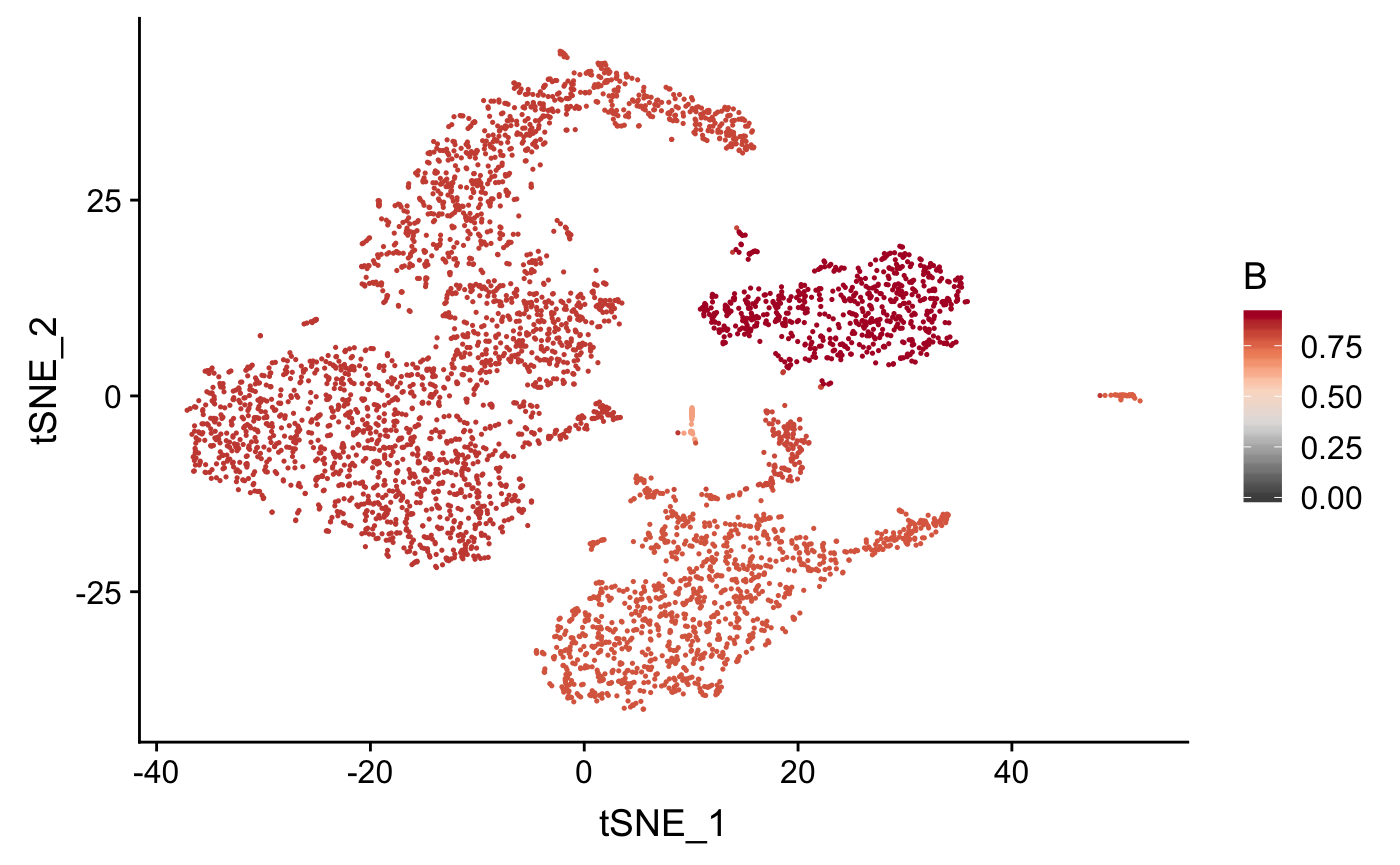
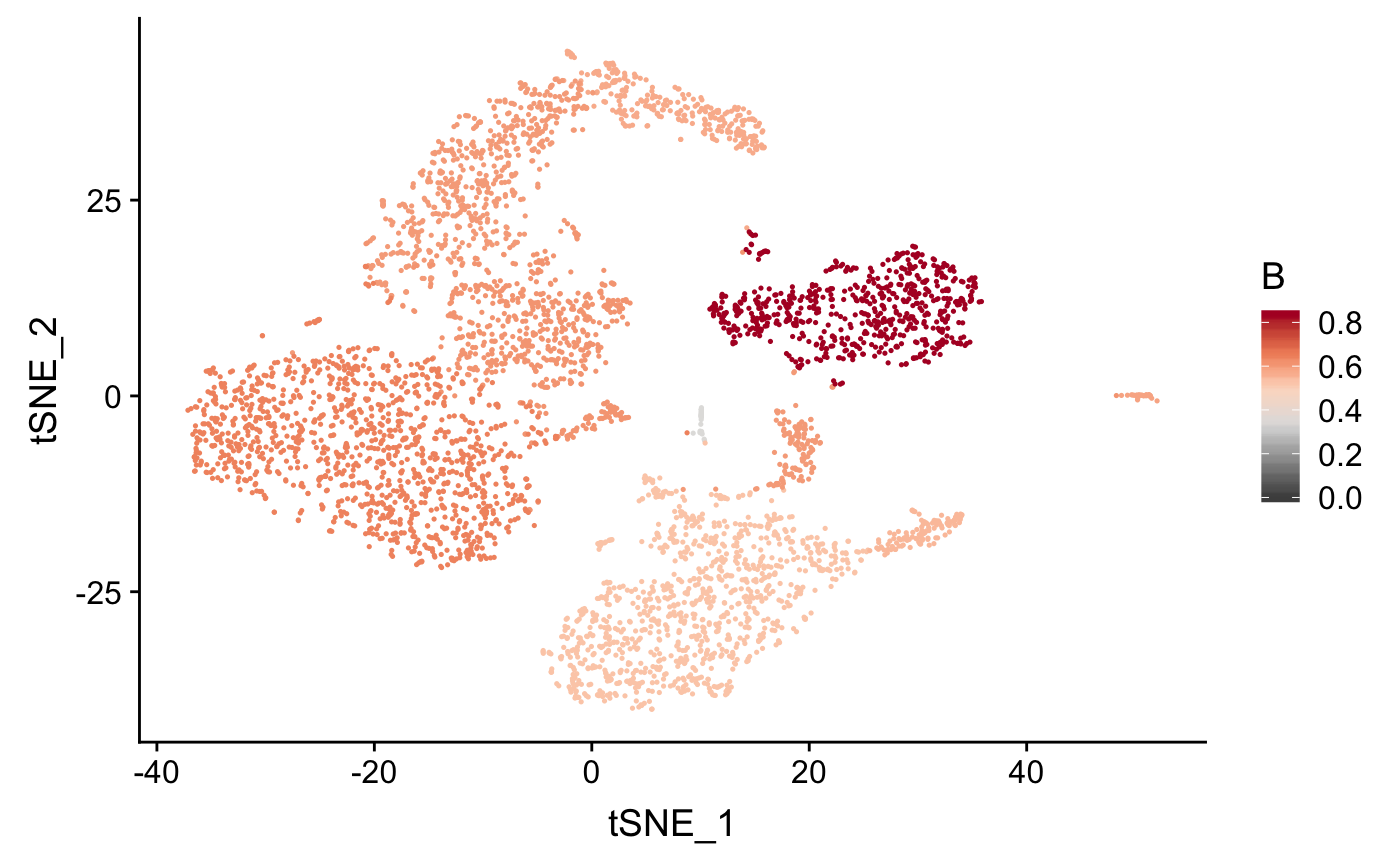
updated website

diff --git a/docs/articles/visualizations.html b/docs/articles/visualizations.html
@@ -121,22 +121,23 @@
 <a class="sourceLine" id="cb1-8" title="8">  <span class="dt">input =</span> full_pbmc4k_matrix,</a>
 <a class="sourceLine" id="cb1-9" title="9">  <span class="dt">metadata =</span> full_pbmc4k_meta,</a>
 <a class="sourceLine" id="cb1-10" title="10">  <span class="dt">cluster_col =</span> <span class="st">"cluster"</span>,</a>
-<a class="sourceLine" id="cb1-11" title="11">  <span class="dt">ref_mat =</span> cbmc_ref</a>
-<a class="sourceLine" id="cb1-12" title="12">)</a>
-<a class="sourceLine" id="cb1-13" title="13"></a>
-<a class="sourceLine" id="cb1-14" title="14"><span class="co"># plot_cor generates a plot per reference cluster</span></a>
-<a class="sourceLine" id="cb1-15" title="15">g &lt;-<span class="st"> </span><span class="kw"><a href="../reference/plot_cor.html">plot_cor</a></span>(</a>
-<a class="sourceLine" id="cb1-16" title="16">  res,</a>
-<a class="sourceLine" id="cb1-17" title="17">  full_pbmc4k_meta,</a>
-<a class="sourceLine" id="cb1-18" title="18">  <span class="dt">cluster_col =</span> <span class="st">"cluster"</span>,</a>
-<a class="sourceLine" id="cb1-19" title="19">  <span class="dt">x =</span> <span class="st">"tSNE_1"</span>, </a>
-<a class="sourceLine" id="cb1-20" title="20">  <span class="dt">y =</span> <span class="st">"tSNE_2"</span></a>
-<a class="sourceLine" id="cb1-21" title="21">)</a>
-<a class="sourceLine" id="cb1-22" title="22"></a>
-<a class="sourceLine" id="cb1-23" title="23"><span class="kw"><a href="https://www.rdocumentation.org/packages/base/topics/length">length</a></span>(g) <span class="op">==</span><span class="st"> </span><span class="kw"><a href="https://www.rdocumentation.org/packages/base/topics/nrow">ncol</a></span>(cbmc_ref)</a>
-<a class="sourceLine" id="cb1-24" title="24"><span class="co">#&gt; [1] TRUE</span></a>
-<a class="sourceLine" id="cb1-25" title="25"></a>
-<a class="sourceLine" id="cb1-26" title="26">g[[<span class="dv">1</span>]]</a></code></pre></div>
+<a class="sourceLine" id="cb1-11" title="11">  <span class="dt">ref_mat =</span> cbmc_ref,</a>
+<a class="sourceLine" id="cb1-12" title="12">  <span class="dt">query_genes =</span> pbmc4k_vargenes</a>
+<a class="sourceLine" id="cb1-13" title="13">)</a>
+<a class="sourceLine" id="cb1-14" title="14"></a>
+<a class="sourceLine" id="cb1-15" title="15"><span class="co"># plot_cor generates a plot per reference cluster</span></a>
+<a class="sourceLine" id="cb1-16" title="16">g &lt;-<span class="st"> </span><span class="kw"><a href="../reference/plot_cor.html">plot_cor</a></span>(</a>
+<a class="sourceLine" id="cb1-17" title="17">  res,</a>
+<a class="sourceLine" id="cb1-18" title="18">  full_pbmc4k_meta,</a>
+<a class="sourceLine" id="cb1-19" title="19">  <span class="dt">cluster_col =</span> <span class="st">"cluster"</span>,</a>
+<a class="sourceLine" id="cb1-20" title="20">  <span class="dt">x =</span> <span class="st">"tSNE_1"</span>, </a>
+<a class="sourceLine" id="cb1-21" title="21">  <span class="dt">y =</span> <span class="st">"tSNE_2"</span></a>
+<a class="sourceLine" id="cb1-22" title="22">)</a>
+<a class="sourceLine" id="cb1-23" title="23"></a>
+<a class="sourceLine" id="cb1-24" title="24"><span class="kw"><a href="https://www.rdocumentation.org/packages/base/topics/length">length</a></span>(g) <span class="op">==</span><span class="st"> </span><span class="kw"><a href="https://www.rdocumentation.org/packages/base/topics/nrow">ncol</a></span>(cbmc_ref)</a>
+<a class="sourceLine" id="cb1-25" title="25"><span class="co">#&gt; [1] TRUE</span></a>
+<a class="sourceLine" id="cb1-26" title="26"></a>
+<a class="sourceLine" id="cb1-27" title="27">g[[<span class="dv">1</span>]]</a></code></pre></div>
 <p><img src="visualizations_files/figure-html/unnamed-chunk-1-1.png" width="700" style="display: block; margin: auto;"></p>
 <div class="sourceCode" id="cb2"><pre class="sourceCode r"><code class="sourceCode r"><a class="sourceLine" id="cb2-1" title="1"></a>
 <a class="sourceLine" id="cb2-2" title="2"><span class="co"># plot_best_call to view called identities in one plot</span></a>
@@ -157,55 +158,72 @@
 <a class="sourceLine" id="cb3-9" title="9">  <span class="dt">n =</span> <span class="dv">5</span></a>
 <a class="sourceLine" id="cb3-10" title="10">  )</a></code></pre></div>
 <p><img src="visualizations_files/figure-html/unnamed-chunk-1-3.png" width="700" style="display: block; margin: auto;"></p>
+<div class="sourceCode" id="cb4"><pre class="sourceCode r"><code class="sourceCode r"><a class="sourceLine" id="cb4-1" title="1"></a>
+<a class="sourceLine" id="cb4-2" title="2"><span class="co"># `clustify` against reference combinations also informs clustering</span></a>
+<a class="sourceLine" id="cb4-3" title="3"><span class="co"># in this case, several clusters seems to be a mixture with neighboring idents</span></a>
+<a class="sourceLine" id="cb4-4" title="4">comb_ref &lt;-<span class="st"> </span><span class="kw"><a href="../reference/make_comb_ref.html">make_comb_ref</a></span>(cbmc_ref)</a>
+<a class="sourceLine" id="cb4-5" title="5">res2 &lt;-<span class="st"> </span><span class="kw"><a href="../reference/clustify.html">clustify</a></span>(</a>
+<a class="sourceLine" id="cb4-6" title="6">  <span class="dt">input =</span> full_pbmc4k_matrix,</a>
+<a class="sourceLine" id="cb4-7" title="7">  <span class="dt">metadata =</span> full_pbmc4k_meta,</a>
+<a class="sourceLine" id="cb4-8" title="8">  <span class="dt">cluster_col =</span> <span class="st">"cluster"</span>,</a>
+<a class="sourceLine" id="cb4-9" title="9">  <span class="dt">ref_mat =</span> comb_ref,</a>
+<a class="sourceLine" id="cb4-10" title="10">  <span class="dt">query_genes =</span> pbmc4k_vargenes</a>
+<a class="sourceLine" id="cb4-11" title="11">)</a>
+<a class="sourceLine" id="cb4-12" title="12"><span class="kw"><a href="../reference/plot_best_call.html">plot_best_call</a></span>(</a>
+<a class="sourceLine" id="cb4-13" title="13">  res2,</a>
+<a class="sourceLine" id="cb4-14" title="14">  full_pbmc4k_meta,</a>
+<a class="sourceLine" id="cb4-15" title="15">  <span class="dt">do.label =</span> T</a>
+<a class="sourceLine" id="cb4-16" title="16">)</a></code></pre></div>
+<p><img src="visualizations_files/figure-html/unnamed-chunk-1-4.png" width="700" style="display: block; margin: auto;"></p>
 </div>
 <div id="heatmap" class="section level2">
 <h2 class="hasAnchor">
 <a href="#heatmap" class="anchor"></a>Heatmap</h2>
-<div class="sourceCode" id="cb4"><pre class="sourceCode r"><code class="sourceCode r"><a class="sourceLine" id="cb4-1" title="1">res &lt;-<span class="st"> </span><span class="kw"><a href="../reference/clustify.html">clustify</a></span>(</a>
-<a class="sourceLine" id="cb4-2" title="2">  <span class="dt">input =</span> full_pbmc4k_matrix,</a>
-<a class="sourceLine" id="cb4-3" title="3">  <span class="dt">metadata =</span> full_pbmc4k_meta,</a>
-<a class="sourceLine" id="cb4-4" title="4">  <span class="dt">cluster_col =</span> <span class="st">"cluster"</span>,</a>
-<a class="sourceLine" id="cb4-5" title="5">  <span class="dt">ref_mat =</span> cbmc_ref</a>
-<a class="sourceLine" id="cb4-6" title="6">)</a>
-<a class="sourceLine" id="cb4-7" title="7"></a>
-<a class="sourceLine" id="cb4-8" title="8"><span class="kw"><a href="../reference/plot_cor_heatmap.html">plot_cor_heatmap</a></span>(res)</a></code></pre></div>
+<div class="sourceCode" id="cb5"><pre class="sourceCode r"><code class="sourceCode r"><a class="sourceLine" id="cb5-1" title="1">res &lt;-<span class="st"> </span><span class="kw"><a href="../reference/clustify.html">clustify</a></span>(</a>
+<a class="sourceLine" id="cb5-2" title="2">  <span class="dt">input =</span> full_pbmc4k_matrix,</a>
+<a class="sourceLine" id="cb5-3" title="3">  <span class="dt">metadata =</span> full_pbmc4k_meta,</a>
+<a class="sourceLine" id="cb5-4" title="4">  <span class="dt">cluster_col =</span> <span class="st">"cluster"</span>,</a>
+<a class="sourceLine" id="cb5-5" title="5">  <span class="dt">ref_mat =</span> cbmc_ref</a>
+<a class="sourceLine" id="cb5-6" title="6">)</a>
+<a class="sourceLine" id="cb5-7" title="7"></a>
+<a class="sourceLine" id="cb5-8" title="8"><span class="kw"><a href="../reference/plot_cor_heatmap.html">plot_cor_heatmap</a></span>(res)</a></code></pre></div>
 <p><img src="visualizations_files/figure-html/unnamed-chunk-2-1.png" width="700" style="display: block; margin: auto;"></p>
-<div class="sourceCode" id="cb5"><pre class="sourceCode r"><code class="sourceCode r"><a class="sourceLine" id="cb5-1" title="1"></a>
-<a class="sourceLine" id="cb5-2" title="2">res2 &lt;-<span class="st"> </span><span class="kw"><a href="../reference/clustify_lists.html">clustify_lists</a></span>(</a>
-<a class="sourceLine" id="cb5-3" title="3">  <span class="dt">input =</span> full_pbmc4k_matrix,</a>
-<a class="sourceLine" id="cb5-4" title="4">  <span class="dt">cluster_info =</span> full_pbmc4k_meta,</a>
-<a class="sourceLine" id="cb5-5" title="5">  <span class="dt">cluster_col =</span> <span class="st">"cluster"</span>,</a>
-<a class="sourceLine" id="cb5-6" title="6">  <span class="dt">marker =</span> pbmc4k_markers,</a>
-<a class="sourceLine" id="cb5-7" title="7">  <span class="dt">marker_inmatrix =</span> F</a>
-<a class="sourceLine" id="cb5-8" title="8">)</a>
-<a class="sourceLine" id="cb5-9" title="9"></a>
-<a class="sourceLine" id="cb5-10" title="10"><span class="kw"><a href="../reference/plot_cor_heatmap.html">plot_cor_heatmap</a></span>(res2)</a></code></pre></div>
+<div class="sourceCode" id="cb6"><pre class="sourceCode r"><code class="sourceCode r"><a class="sourceLine" id="cb6-1" title="1"></a>
+<a class="sourceLine" id="cb6-2" title="2">res2 &lt;-<span class="st"> </span><span class="kw"><a href="../reference/clustify_lists.html">clustify_lists</a></span>(</a>
+<a class="sourceLine" id="cb6-3" title="3">  <span class="dt">input =</span> full_pbmc4k_matrix,</a>
+<a class="sourceLine" id="cb6-4" title="4">  <span class="dt">cluster_info =</span> full_pbmc4k_meta,</a>
+<a class="sourceLine" id="cb6-5" title="5">  <span class="dt">cluster_col =</span> <span class="st">"cluster"</span>,</a>
+<a class="sourceLine" id="cb6-6" title="6">  <span class="dt">marker =</span> pbmc4k_markers,</a>
+<a class="sourceLine" id="cb6-7" title="7">  <span class="dt">marker_inmatrix =</span> F</a>
+<a class="sourceLine" id="cb6-8" title="8">)</a>
+<a class="sourceLine" id="cb6-9" title="9"></a>
+<a class="sourceLine" id="cb6-10" title="10"><span class="kw"><a href="../reference/plot_cor_heatmap.html">plot_cor_heatmap</a></span>(res2)</a></code></pre></div>
 <p><img src="visualizations_files/figure-html/unnamed-chunk-2-2.png" width="700" style="display: block; margin: auto;"></p>
 </div>
 <div id="gsea-top-hits-per-cluster" class="section level2">
 <h2 class="hasAnchor">
 <a href="#gsea-top-hits-per-cluster" class="anchor"></a>GSEA top hits per cluster</h2>
-<div class="sourceCode" id="cb6"><pre class="sourceCode r"><code class="sourceCode r"><a class="sourceLine" id="cb6-1" title="1"><span class="co"># gene lists can be converted from gmt files (Broad)</span></a>
-<a class="sourceLine" id="cb6-2" title="2">list_reactome &lt;-<span class="st"> </span><span class="kw"><a href="../reference/gmt_to_list.html">gmt_to_list</a></span>(<span class="kw"><a href="https://www.rdocumentation.org/packages/here/topics/here">here</a></span>(<span class="st">"c2.cp.reactome.v6.2.symbols.gmt"</span>))</a>
-<a class="sourceLine" id="cb6-3" title="3"></a>
-<a class="sourceLine" id="cb6-4" title="4">full_pbmc4k_avg &lt;-<span class="st"> </span><span class="kw"><a href="../reference/average_clusters.html">average_clusters</a></span>(</a>
-<a class="sourceLine" id="cb6-5" title="5">  full_pbmc4k_matrix, </a>
-<a class="sourceLine" id="cb6-6" title="6">  full_pbmc4k_meta, </a>
-<a class="sourceLine" id="cb6-7" title="7">  <span class="dt">cluster_col =</span> <span class="st">"classified"</span></a>
-<a class="sourceLine" id="cb6-8" title="8">)</a>
-<a class="sourceLine" id="cb6-9" title="9"></a>
-<a class="sourceLine" id="cb6-10" title="10">res &lt;-<span class="st"> </span><span class="kw"><a href="../reference/plot_pathway_gsea.html">plot_pathway_gsea</a></span>(</a>
-<a class="sourceLine" id="cb6-11" title="11">  full_pbmc4k_avg[,<span class="dv">1</span><span class="op">:</span><span class="dv">2</span>], </a>
-<a class="sourceLine" id="cb6-12" title="12">  list_reactome, </a>
-<a class="sourceLine" id="cb6-13" title="13">  <span class="dt">topn =</span> <span class="dv">3</span>)</a>
-<a class="sourceLine" id="cb6-14" title="14"></a>
-<a class="sourceLine" id="cb6-15" title="15"><span class="co"># returns dataframe of gsea analysis</span></a>
-<a class="sourceLine" id="cb6-16" title="16">res[[<span class="dv">1</span>]][<span class="dv">1</span><span class="op">:</span><span class="dv">2</span>,<span class="dv">1</span><span class="op">:</span><span class="dv">2</span>]</a>
-<a class="sourceLine" id="cb6-17" title="17"><span class="co">#&gt;                 GLYCOGEN_BREAKDOWN_GLYCOGENOLYSIS TRANSLATION</span></a>
-<a class="sourceLine" id="cb6-18" title="18"><span class="co">#&gt; B cells                                 -1.535351    3.262957</span></a>
-<a class="sourceLine" id="cb6-19" title="19"><span class="co">#&gt; CD14+ Monocytes                          1.340259   -3.207698</span></a>
-<a class="sourceLine" id="cb6-20" title="20"><span class="co"># and plot</span></a>
-<a class="sourceLine" id="cb6-21" title="21">res[[<span class="dv">2</span>]]</a></code></pre></div>
+<div class="sourceCode" id="cb7"><pre class="sourceCode r"><code class="sourceCode r"><a class="sourceLine" id="cb7-1" title="1"><span class="co"># gene lists can be converted from gmt files (Broad)</span></a>
+<a class="sourceLine" id="cb7-2" title="2">list_reactome &lt;-<span class="st"> </span><span class="kw"><a href="../reference/gmt_to_list.html">gmt_to_list</a></span>(<span class="kw"><a href="https://www.rdocumentation.org/packages/here/topics/here">here</a></span>(<span class="st">"c2.cp.reactome.v6.2.symbols.gmt"</span>))</a>
+<a class="sourceLine" id="cb7-3" title="3"></a>
+<a class="sourceLine" id="cb7-4" title="4">full_pbmc4k_avg &lt;-<span class="st"> </span><span class="kw"><a href="../reference/average_clusters.html">average_clusters</a></span>(</a>
+<a class="sourceLine" id="cb7-5" title="5">  full_pbmc4k_matrix, </a>
+<a class="sourceLine" id="cb7-6" title="6">  full_pbmc4k_meta, </a>
+<a class="sourceLine" id="cb7-7" title="7">  <span class="dt">cluster_col =</span> <span class="st">"classified"</span></a>
+<a class="sourceLine" id="cb7-8" title="8">)</a>
+<a class="sourceLine" id="cb7-9" title="9"></a>
+<a class="sourceLine" id="cb7-10" title="10">res &lt;-<span class="st"> </span><span class="kw"><a href="../reference/plot_pathway_gsea.html">plot_pathway_gsea</a></span>(</a>
+<a class="sourceLine" id="cb7-11" title="11">  full_pbmc4k_avg[,<span class="dv">1</span><span class="op">:</span><span class="dv">2</span>], </a>
+<a class="sourceLine" id="cb7-12" title="12">  list_reactome, </a>
+<a class="sourceLine" id="cb7-13" title="13">  <span class="dt">topn =</span> <span class="dv">3</span>)</a>
+<a class="sourceLine" id="cb7-14" title="14"></a>
+<a class="sourceLine" id="cb7-15" title="15"><span class="co"># returns dataframe of gsea analysis</span></a>
+<a class="sourceLine" id="cb7-16" title="16">res[[<span class="dv">1</span>]][<span class="dv">1</span><span class="op">:</span><span class="dv">2</span>,<span class="dv">1</span><span class="op">:</span><span class="dv">2</span>]</a>
+<a class="sourceLine" id="cb7-17" title="17"><span class="co">#&gt;                 GLYCOGEN_BREAKDOWN_GLYCOGENOLYSIS TRANSLATION</span></a>
+<a class="sourceLine" id="cb7-18" title="18"><span class="co">#&gt; B cells                                 -1.535351    3.262957</span></a>
+<a class="sourceLine" id="cb7-19" title="19"><span class="co">#&gt; CD14+ Monocytes                          1.340259   -3.207698</span></a>
+<a class="sourceLine" id="cb7-20" title="20"><span class="co"># and plot</span></a>
+<a class="sourceLine" id="cb7-21" title="21">res[[<span class="dv">2</span>]]</a></code></pre></div>
 <p><img src="visualizations_files/figure-html/unnamed-chunk-3-1.png" width="700" style="display: block; margin: auto;"></p>
 </div>
   </div>

diff --git a/docs/reference/make_comb_ref.html b/docs/reference/make_comb_ref.html
@@ -6,7 +6,7 @@
 <meta http-equiv="X-UA-Compatible" content="IE=edge">
 <meta name="viewport" content="width=device-width, initial-scale=1.0">
 
-<title>Changelog • clustifyR</title>
+<title>make combination ref matrix to assess intermixing — make_comb_ref • clustifyR</title>
 
 <!-- jquery -->
 <script src="https://cdnjs.cloudflare.com/ajax/libs/jquery/3.3.1/jquery.min.js" integrity="sha256-FgpCb/KJQlLNfOu91ta32o/NMZxltwRo8QtmkMRdAu8=" crossorigin="anonymous"></script>
@@ -30,7 +30,9 @@
 
 
 
-<meta property="og:title" content="Changelog" />
+<meta property="og:title" content="make combination ref matrix to assess intermixing — make_comb_ref" />
+
+<meta property="og:description" content="make combination ref matrix to assess intermixing" />
 
 <meta property="og:image" content="http://rnabioco.github.io/clustifyR/logo.png" />
 <meta name="twitter:card" content="summary" />
@@ -50,7 +52,7 @@
   </head>
 
   <body>
-    <div class="container template-news">
+    <div class="container template-reference-topic">
       <header>
       <div class="navbar navbar-default navbar-fixed-top" role="navigation">
   <div class="container">
@@ -129,47 +131,45 @@
 <div class="row">
   <div class="col-md-9 contents">
     <div class="page-header">
-      <h1>Changelog <small></small></h1>
-      <small>Source: <a href='https://github.com/rnabioco/clustifyR/blob/master/NEWS.md'><code>NEWS.md</code></a></small>
+    <h1>make combination ref matrix to assess intermixing</h1>
+    <small class="dont-index">Source: <a href='https://github.com/rnabioco/clustifyR/blob/master/R/utils.R'><code>R/utils.R</code></a></small>
+    <div class="hidden name"><code>make_comb_ref.Rd</code></div>
     </div>
 
-    <div id="clustifyr-05-29-19" class="section level1">
-<h1 class="page-header">
-<a href="#clustifyr-05-29-19" class="anchor"></a>clustifyR 05-29-19</h1>
-<ul>
-<li><p>Updated discussions, benchmark, and visualization example pages</p></li>
-<li><p>reorganized <code>clustifyrdata</code> data package</p></li>
-</ul>
-</div>
-    <div id="clustifyr-02-01-19" class="section level1">
-<h1 class="page-header">
-<a href="#clustifyr-02-01-19" class="anchor"></a>clustifyR 02-01-19</h1>
-<ul>
-<li><p>Added direct support for <code>seurat</code> and other object classes</p></li>
-<li><p>Updated readme and tutorial pages</p></li>
-<li><p>Moved some larger reference data to <code>clustifyrdata</code></p></li>
-</ul>
-</div>
-    <div id="clustifyr-0-0-0-9000" class="section level1">
-<h1 class="page-header">
-<a href="#clustifyr-0-0-0-9000" class="anchor"></a>clustifyR 0.0.0.9000</h1>
-<ul>
-<li>Added a <code>NEWS.md</code> file to track changes to the package.</li>
-</ul>
-</div>
-  </div>
+    <div class="ref-description">
+    
+    <p>make combination ref matrix to assess intermixing</p>
+    
+    </div>
 
+    <pre class="usage"><span class='fu'>make_comb_ref</span>(<span class='no'>ref_mat</span>, <span class='kw'>log_scale</span> <span class='kw'>=</span> <span class='no'>T</span>, <span class='kw'>sep</span> <span class='kw'>=</span> <span class='st'>"_and_"</span>)</pre>
+    
+    <h2 class="hasAnchor" id="arguments"><a class="anchor" href="#arguments"></a>Arguments</h2>
+    <table class="ref-arguments">
+    <colgroup><col class="name" /><col class="desc" /></colgroup>
+    <tr>
+      <th>ref_mat</th>
+      <td><p>reference expression matrix</p></td>
+    </tr>
+    <tr>
+      <th>log_scale</th>
+      <td><p>whether input data is natural</p></td>
+    </tr>
+    <tr>
+      <th>sep</th>
+      <td><p>separator for name combinations</p></td>
+    </tr>
+    </table>
+    
+
+  </div>
   <div class="col-md-3 hidden-xs hidden-sm" id="sidebar">
-    <div id="tocnav">
-      <h2>Contents</h2>
-      <ul class="nav nav-pills nav-stacked">
-        <li><a href="#clustifyr-05-29-19">05-29-19</a></li>
-        <li><a href="#clustifyr-02-01-19">02-01-19</a></li>
-        <li><a href="#clustifyr-0-0-0-9000">0.0.0.9000</a></li>
-      </ul>
-    </div>
-  </div>
+    <h2>Contents</h2>
+    <ul class="nav nav-pills nav-stacked">
+      <li><a href="#arguments">Arguments</a></li>
+                </ul>
 
+  </div>
 </div>
 
       <footer>

diff --git a/docs/articles/othertools.html b/docs/articles/othertools.html
@@ -111,27 +111,28 @@
 <div id="feature-selection" class="section level2">
 <h2 class="hasAnchor">
 <a href="#feature-selection" class="anchor"></a>Feature selection</h2>
-<p>Using all genes works moderately well, but performance is improved in various testing scenarios by some form of feature selection, such as var.genes in <code>seurat</code>, or <code>M3Drop</code>.</p>
+<p>Using all genes works moderately well, but performance is improved in various testing scenarios by some form of feature selection, such as var.genes in <code>seurat</code>, or <code>M3Drop</code>, or simply highly variable genes.</p>
 </div>
 <div id="imputation" class="section level2">
 <h2 class="hasAnchor">
 <a href="#imputation" class="anchor"></a>Imputation</h2>
-<p>Imputation methods such as <code>ALRA</code>, in attempt to fill in drop-out signal, are not necessary for per-cluster identity assignment. Per-cell assignment is somewhat improved with imputation.</p>
+<p>Imputation methods such as <code>ALRA</code>, in attempt to fill in drop-out signal, are not necessary for cluster-level identity assignment. Per-cell assignment is somewhat improved with imputation. Alternatively, <code>clustifyR</code> offers the <code>rm0</code> option to treat genes with 0 count as missing instead of low expression, and ignore them.</p>
 </div>
 <div id="variance-stabilizing-transformation" class="section level2">
 <h2 class="hasAnchor">
 <a href="#variance-stabilizing-transformation" class="anchor"></a>Variance stabilizing transformation</h2>
-<p><code>clustifyR</code> operates on raw counts and log transformed data. VST, such as implemented by <code>sctransform</code> is acceptable, but does not appear to give additional benefits.</p>
+<p><code>clustifyR</code> operates on raw counts and log transformed data. VST, such as implemented by <code>sctransform</code> is acceptable, but does not appear to give additional benefits. If used, ideally the query and reference matrices should both be transformed.</p>
 </div>
 <div id="background-signal-removal" class="section level2">
 <h2 class="hasAnchor">
 <a href="#background-signal-removal" class="anchor"></a>Background signal removal</h2>
-<p>Massive cell death can potentially lead to RNA contamination of all cells sequenced. Assessment of background contamination, and mitigation actions if needed, is important.</p>
+<p>Massive cell death can potentially lead to RNA contamination of all cells sequenced. Assessment of background contamination, and mitigation actions if needed, is important. Building a background reference by averaging all filtered out cell ids would be one simple way.</p>
 </div>
 <div id="marker-gene-list-selection" class="section level2">
 <h2 class="hasAnchor">
 <a href="#marker-gene-list-selection" class="anchor"></a>Marker gene list selection</h2>
 <p>Marker genes generated by <code>seurat</code> and other methods can be converted to gene list matrix form for <code>clustify_list</code>. Somewhat differently, <code>clustify_nudge</code> works best with normal feature selection plus a short and nonoverlapping list of markers. Both approaches are handled by settings in <code>matrixize_markers</code>.</p>
+<p>On a related note, in most cases where the significance of marker RPL or RPS genes is unclear, possibly due to normalization issues, <code>matrixize_markers</code> offers a <code>remove_rp</code> option. This and similar actions can of course be done manually as well.</p>
 </div>
   </div>
 

diff --git a/docs/articles/benchmark.html b/docs/articles/benchmark.html
@@ -134,7 +134,7 @@
 <a class="sourceLine" id="cb1-22" title="22"></a>
 <a class="sourceLine" id="cb1-23" title="23"><span class="kw"><a href="https://www.rdocumentation.org/packages/base/topics/print">print</a></span>(end <span class="op">-</span><span class="st"> </span>start)</a>
 <a class="sourceLine" id="cb1-24" title="24"><span class="co">#&gt;    user  system elapsed </span></a>
-<a class="sourceLine" id="cb1-25" title="25"><span class="co">#&gt;   1.125   0.416   1.543</span></a>
+<a class="sourceLine" id="cb1-25" title="25"><span class="co">#&gt;   1.422   0.521   1.993</span></a>
 <a class="sourceLine" id="cb1-26" title="26"></a>
 <a class="sourceLine" id="cb1-27" title="27"><span class="kw"><a href="https://www.rdocumentation.org/packages/base/topics/print">print</a></span>(res_allgenes, <span class="dt">n =</span> <span class="kw"><a href="https://www.rdocumentation.org/packages/base/topics/nrow">nrow</a></span>(res_allgenes))</a>
 <a class="sourceLine" id="cb1-28" title="28"><span class="co">#&gt; # A tibble: 32 x 3</span></a>
@@ -194,7 +194,7 @@
 <a class="sourceLine" id="cb2-15" title="15"></a>
 <a class="sourceLine" id="cb2-16" title="16"><span class="kw"><a href="https://www.rdocumentation.org/packages/base/topics/print">print</a></span>(end <span class="op">-</span><span class="st"> </span>start)</a>
 <a class="sourceLine" id="cb2-17" title="17"><span class="co">#&gt;    user  system elapsed </span></a>
-<a class="sourceLine" id="cb2-18" title="18"><span class="co">#&gt;   0.076   0.011   0.087</span></a>
+<a class="sourceLine" id="cb2-18" title="18"><span class="co">#&gt;   0.094   0.015   0.111</span></a>
 <a class="sourceLine" id="cb2-19" title="19"></a>
 <a class="sourceLine" id="cb2-20" title="20"><span class="kw"><a href="https://www.rdocumentation.org/packages/base/topics/print">print</a></span>(res2, <span class="dt">n =</span> <span class="kw"><a href="https://www.rdocumentation.org/packages/base/topics/nrow">nrow</a></span>(res2))</a>
 <a class="sourceLine" id="cb2-21" title="21"><span class="co">#&gt; # A tibble: 10 x 3</span></a>

diff --git a/NEWS.md b/NEWS.md
@@ -1,4 +1,10 @@
-# clustifyR 0.1
+# clustifyR 05-29-19
+
+* Updated discussions, benchmark, and visualization example pages
+
+* reorganized `clustifyrdata` data package
+
+# clustifyR 02-01-19
 
 * Added direct support for `seurat` and other object classes
 
